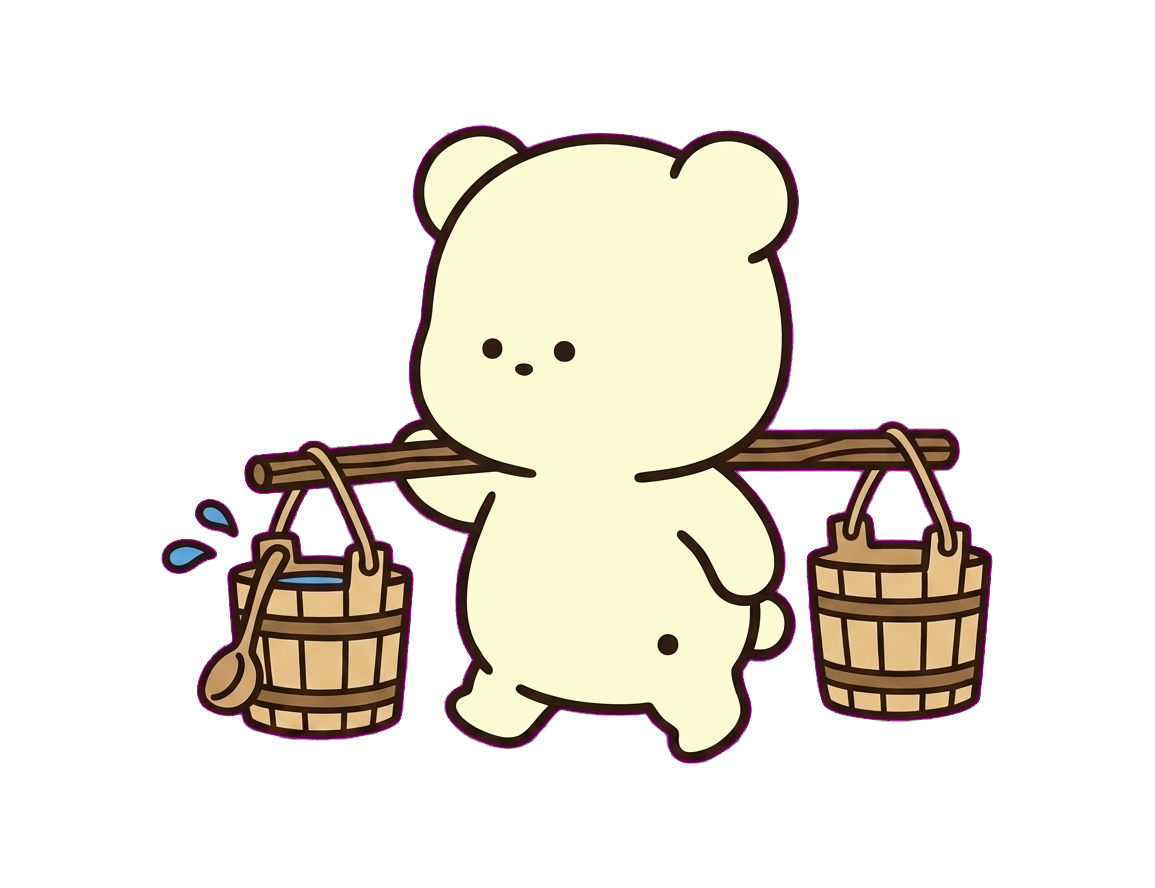
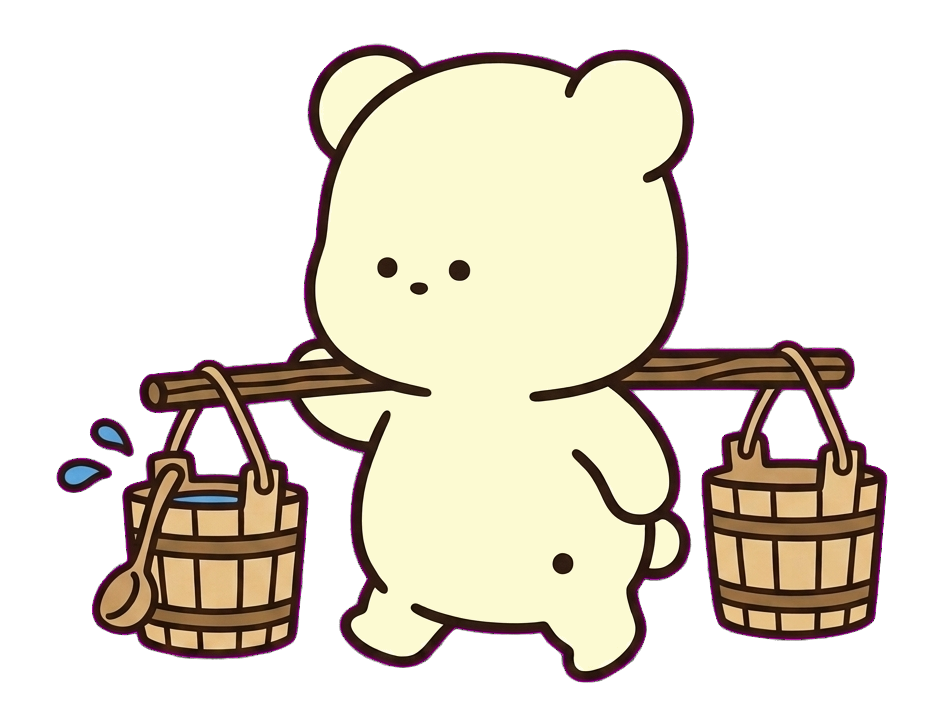
feat(vanished-jobs-archive): 021-030イラスト追加(024作り直し込み)・サイズ統一・019細線化
- 021煙突掃除少年/022骨相学者/023採氷人/024氷配達人/025ネズミ捕り師/026触れ役/027泥ひばり/028下水拾い/029ぼろ買い/030辻馬車御者
- 007道化師/012水売り/020死体盗掘人は表示倍率を上げて他と大きさを統一
- 019ヒル採集人は細い線で再生成
- OVERSIZEDマップは全画像が番号ベースになったため空に

Changed region(s): [[0.0614, 0.0605, 0.9513, 0.9381], [0.5524, 0.696, 0.5831, 0.7565]]

diff --git a/vanished-jobs-archive/src/components/JobCard.tsx b/vanished-jobs-archive/src/components/JobCard.tsx
@@ -31,8 +31,8 @@ function BearPlaceholder() {
   );
 }
 
-/** はみ出し気味に大きく置く画像（受け渡しREADME指定：ノッカーアップ・氷配達人） */
-const OVERSIZED = new Set(["jobs/knocker.png", "jobs/iceman.png"]);
+/** はみ出し気味に大きく置く画像（現在は該当なし。必要ならパスを追加） */
+const OVERSIZED = new Set<string>([]);
 
 /** 画像ごとの位置微調整（絵柄がカード中央に来るように） */
 const NUDGE: Record<string, string> = {};
